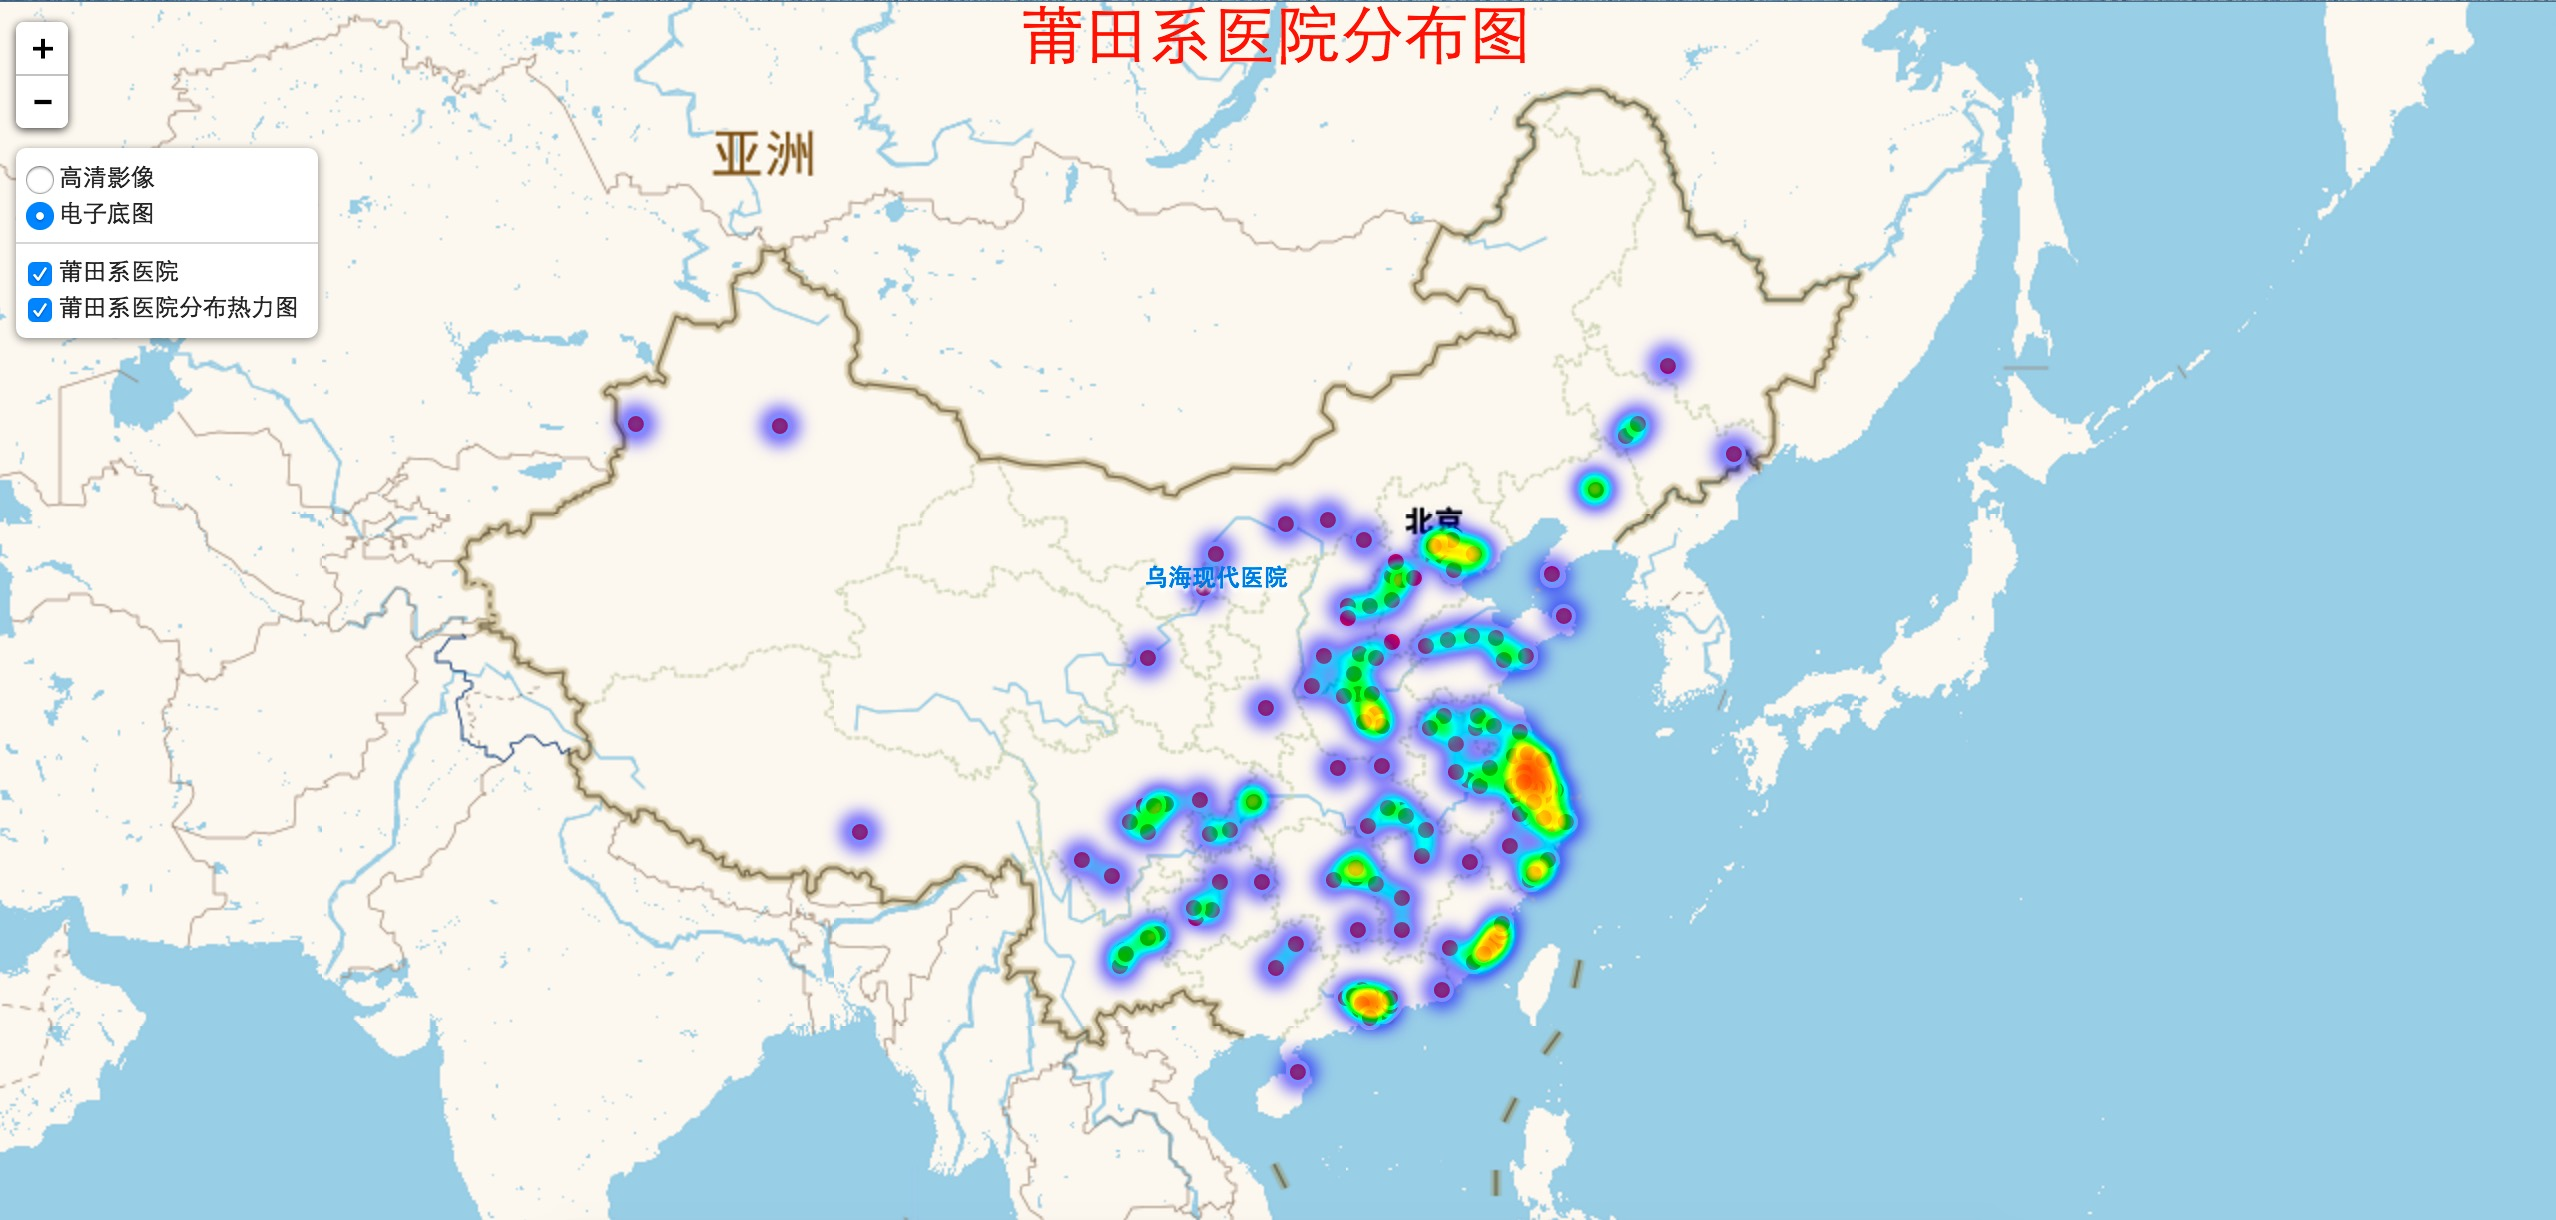
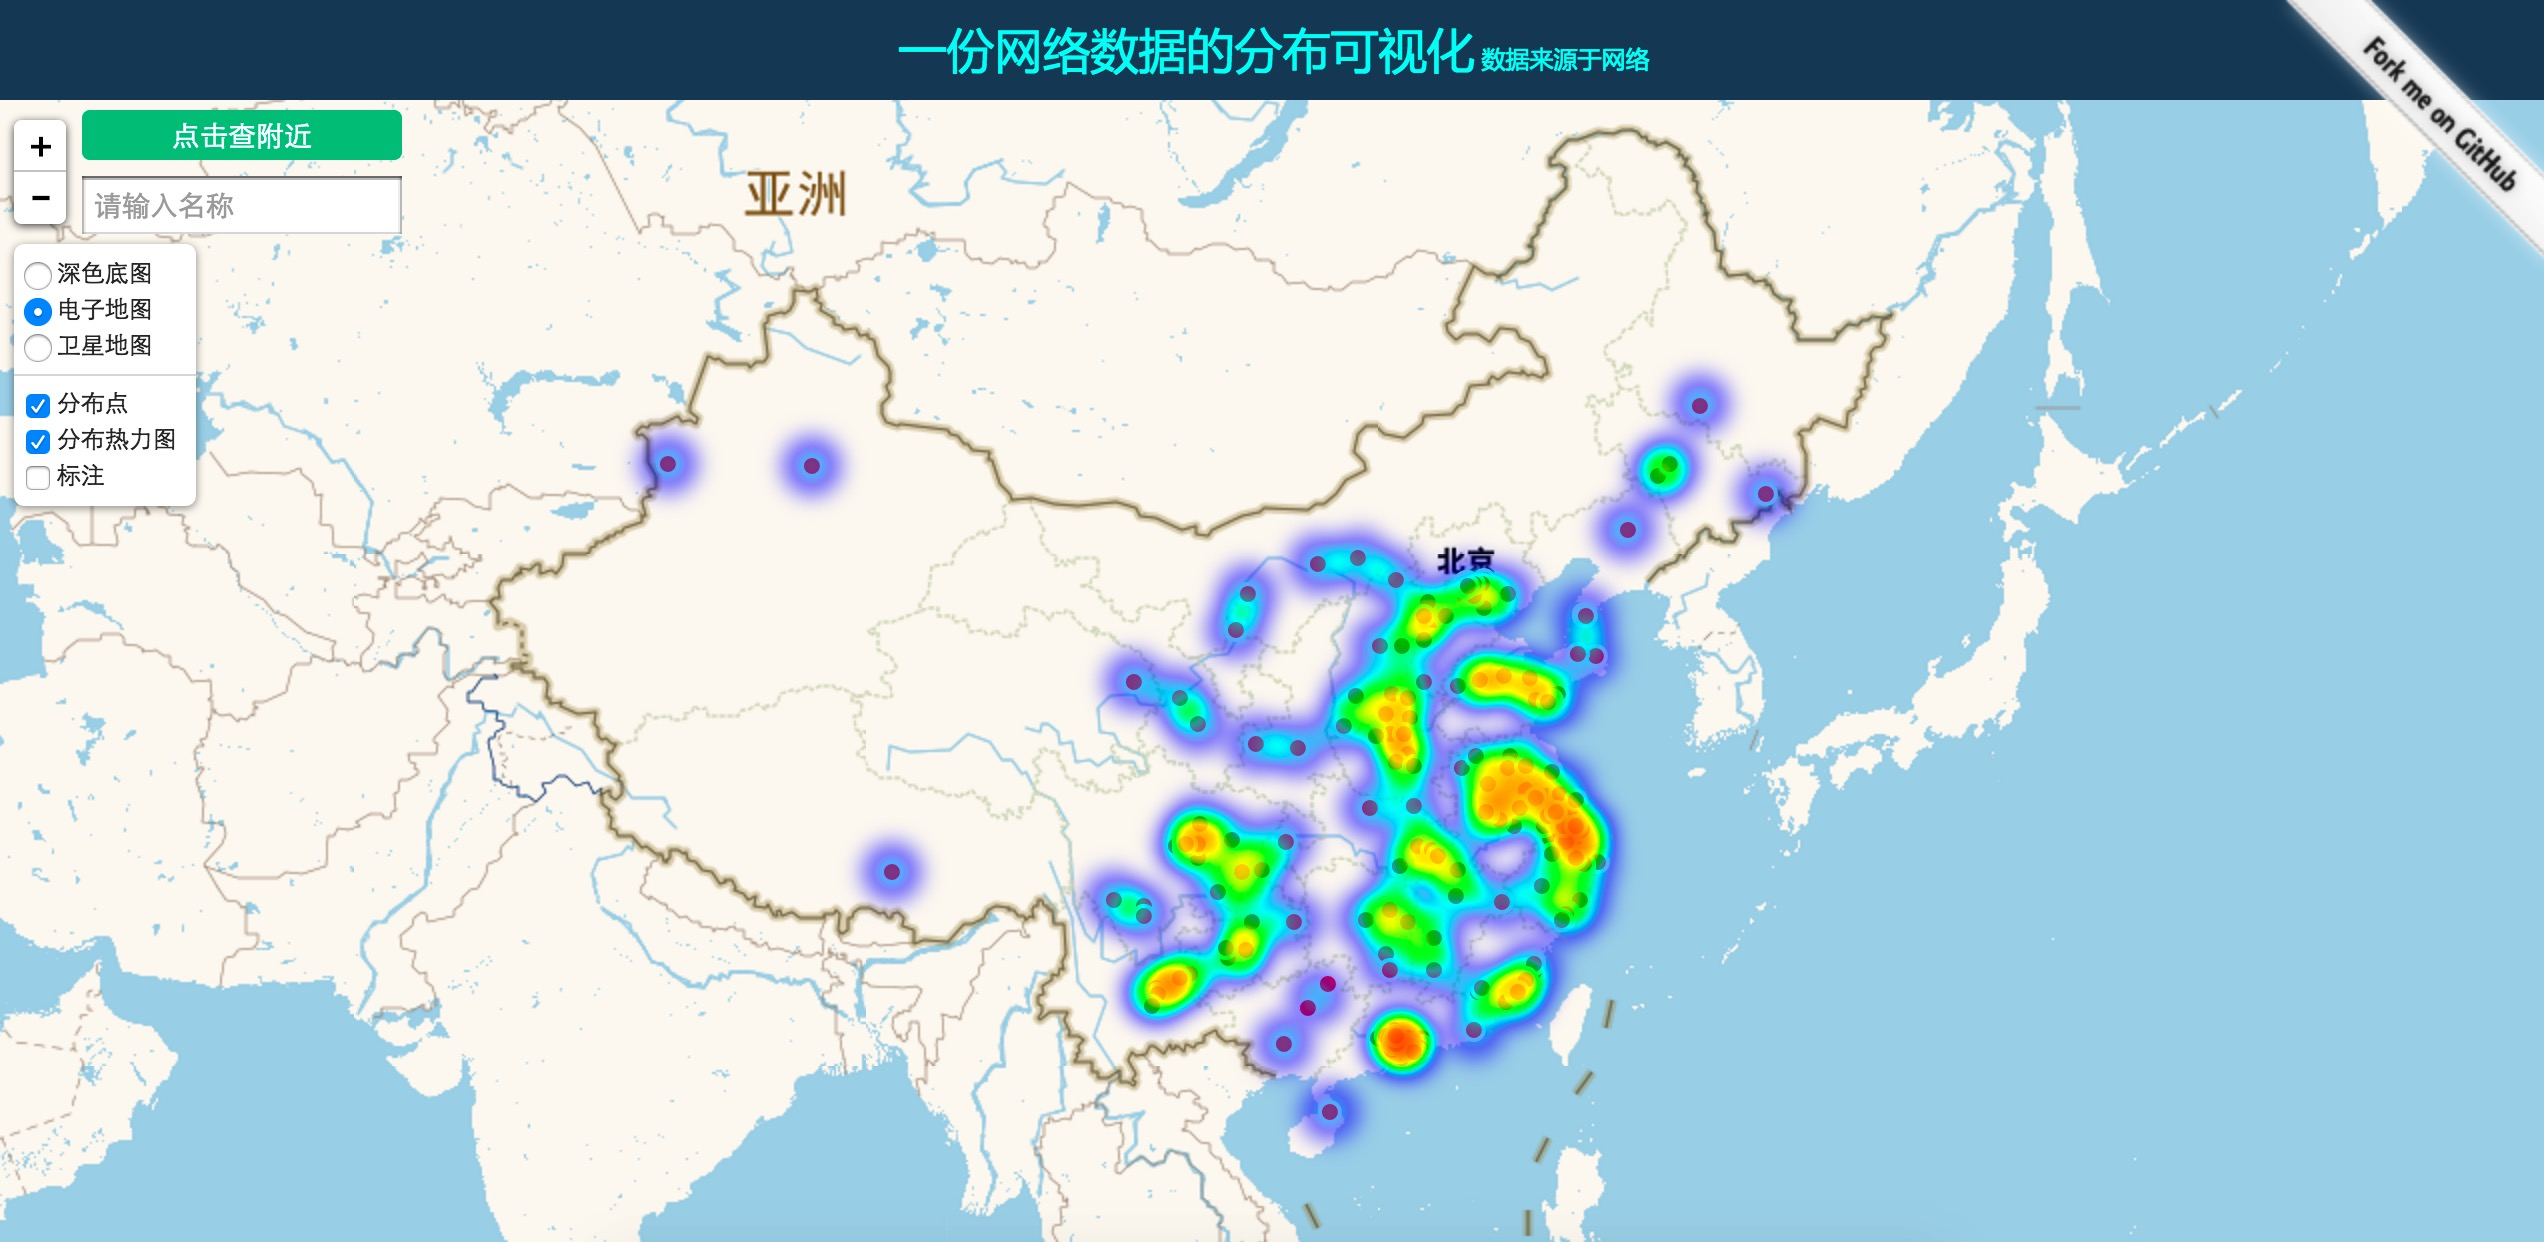
some update

diff --git a/index.html b/index.html
@@ -102,11 +102,11 @@
 </head>
 
 <body>
-    <div class="title">莆田系医院分布图<span style="font-size: 12px;">&nbsp;数据来源于网络</span> </div>
+    <div class="title">一份网络数据的分布可视化<span style="font-size: 12px;">&nbsp;数据来源于网络</span> </div>
     <div id="map"></div>
     <div class="func">
-        <button class="tips" id='mylocation'>点击查附近莆田系医院</button>
-        <input class="typeahead" type="text" placeholder="请输入医院名称">
+        <button class="tips" id='mylocation'>点击查附近</button>
+        <input class="typeahead" type="text" placeholder="请输入名称">
     </div>
     <a href="https://github.com/wandergis/putian-hospitals"><img style="position: absolute; top: 0; right: 0; border: 0;" src="https://camo.githubusercontent.com/52760788cde945287fbb584134c4cbc2bc36f904/68747470733a2f2f73332e616d617a6f6e6177732e636f6d2f6769746875622f726962626f6e732f666f726b6d655f72696768745f77686974655f6666666666662e706e67" alt="Fork me on GitHub" data-canonical-src="https://s3.amazonaws.com/github/ribbons/forkme_right_white_ffffff.png"></a>
     <script src="//cdn.bootcss.com/leaflet/0.7.7/leaflet.js"></script>
@@ -136,10 +136,10 @@
     }).addTo(map);
     var highlight = {}; //高亮符号
     var lastLayer; //最后点击
-    var putianLayer;
+    var hospitalLayer;
     var labelgroup = new L.LayerGroup();
-    $.getJSON('./putian.geojson', function(data) {
-        putianLayer = L.geoJson(data, {
+    $.getJSON('./hospital.geojson', function(data) {
+        hospitalLayer = L.geoJson(data, {
             pointToLayer: function(feature, latlng) {
                 var marker = L.circleMarker(latlng, {
                     radius: 5,
@@ -195,8 +195,8 @@
             blur: 15,
             minOpacity: 0.5
         }).addTo(map);
-        putianLayer.bringToFront();
-        layerControl.addOverlay(putianLayer, '莆田系医院');
+        hospitalLayer.bringToFront();
+        layerControl.addOverlay(hospitalLayer, '分布点');
         layerControl.addOverlay(heat, '分布热力图');
         layerControl.addOverlay(labelgroup, '标注');
         map.on('click', function(e) {
@@ -264,7 +264,7 @@
             queryTokenizer: Bloodhound.tokenizers.whitespace,
             local: function() {
                 var names = [];
-                putianLayer.eachLayer(function(l) {
+                hospitalLayer.eachLayer(function(l) {
                     names.push(l.feature.properties.name);
                 });
                 return names;
@@ -280,7 +280,7 @@
             $(this).val('');
         })
         $('.typeahead').bind('typeahead:select', function(ev, suggestion) {
-            putianLayer.eachLayer(function(l) {
+            hospitalLayer.eachLayer(function(l) {
                 if (l.feature.properties.name === suggestion) {
                     map.fitBounds(l, {
                         maxZoom: 16

diff --git a/getLocation.js b/getLocation.js
@@ -2,7 +2,7 @@ var fs = require('fs');
 var _ = require('lodash');
 var async = require('async');
 var request = require('request');
-var data = JSON.parse(fs.readFileSync('./putian.json'));
+var data = JSON.parse(fs.readFileSync('./hospital.json'));
 var hospitals = [];
 for (var city in data) {
     hospitals = hospitals.concat(data[city].hospital.map(function(value, index) {
@@ -10,7 +10,7 @@ for (var city in data) {
     }));
 }
 // url=http://restapi.amap.com/v3/geocode/geo?key=你的key&address=泉州南亚医院&city=泉州
-fs.appendFileSync("putianloc.csv", 'name,lng,lat\n');
+fs.appendFileSync("hospital.csv", 'name,lng,lat\n');
 async.eachLimit(hospitals, 10, function(hospital, cb) {
     var uri = 'http://restapi.amap.com/v3/geocode/geo?key=你的key&address=' + hospital.split(' ')[1] + '&city=' + hospital.split(' ')[0];
     request(encodeURI(uri), function(error, response, body) {
@@ -19,7 +19,7 @@ async.eachLimit(hospitals, 10, function(hospital, cb) {
             if (body.status === '1' && body.geocodes.length > 0) {
                 var location = body.geocodes[0].location.split(',');
                 var str = hospital.split(' ')[1] + ',' + Number(location[0]) + ',' + Number(location[1]) + '\n';
-                fs.appendFileSync("putianloc.csv", str);
+                fs.appendFileSync("hospital.csv", str);
                 console.log('完成' + hospital);
             }
         }
